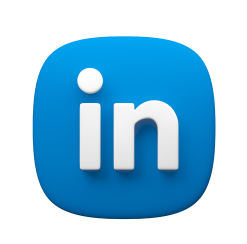
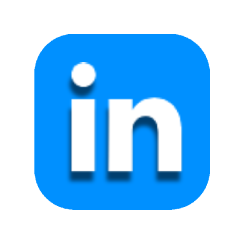
feat(index.astro): add new images, descriptio and comment future components

diff --git a/src/partials/Hero.tsx b/src/partials/Hero.tsx
@@ -3,61 +3,76 @@ import {
   HeroAvatar,
   HeroSocial,
   Section,
-} from 'astro-boilerplate-components';
+} from "astro-boilerplate-components";
 
 const Hero = () => (
   <Section>
     <HeroAvatar
       title={
         <>
-          Hi there, I'm <GradientText>Ixartz</GradientText> 👋
+          Hi there, I'm <GradientText>Inushin</GradientText> 👋
         </>
       }
       description={
         <>
-          Lorem ipsum dolor sit amet, consectetur adipiscing elit. Phasellus{' '}
-          <a className="text-cyan-400 hover:underline" href="/">
-            malesuada
-          </a>{' '}
-          nisi tellus, non imperdiet nisi tempor at. Lorem ipsum dolor sit amet,{' '}
-          <a className="text-cyan-400 hover:underline" href="/">
-            consectetur
-          </a>{' '}
-          adipiscing elit, sed do eiusmod tempor incididunt ut labore et dolore.
+          Well let me be more "personal". Mi name is{" "}
+          <a
+            className="text-cyan-400 hover:underline"
+            href="https://www.linkedin.com/in/aitor-sobera-ortiz-de-z%C3%A1rate-745aa66b/"
+          >
+            Aitor Sobera Ortiz de Zárate
+          </a>
+          , a 28 years old guy who works as FullStack developer from Spain. At
+          this moment, I am working with{" "}
+          <a
+            className="text-cyan-400 hover:underline"
+            href="https://developer.mozilla.org/es/docs/Web/JavaScript"
+          >
+            JavaScript
+          </a>{" "}
+          and{" "}
+          <a
+            className="text-cyan-400 hover:underline"
+            href="https://developer.mozilla.org/es/docs/Web/JavaScript"
+          >
+            TypeScript
+          </a>{" "}
+          as primary programming languages. Apart fromt this, I am a{" "}
+          <a
+            className="text-cyan-400 hover:underline"
+            href="https://www.docker.com/"
+          >
+            Docker
+          </a>{" "}
+          lover.{" "}
         </>
       }
       avatar={
         <img
-          className="h-80 w-64"
-          src="/assets/images/avatar.svg"
+          className="h-75 w-64 rounded-full"
+          src="/assets/images/avatar.jpeg"
           alt="Avatar image"
           loading="lazy"
         />
       }
       socialButtons={
         <>
-          <a href="/">
+          <a href="mailto:aitorthedeveloper@gmail.com">
+            <HeroSocial src="/assets/images/email-icon.png" alt="Email icon" />
+          </a>
+          <a href="https://twitter.com/inushin95">
+            <HeroSocial src="/assets/images/x-icon.png" alt="X icon" />
+          </a>
+          <a href="https://noc.social/@inushin">
             <HeroSocial
-              src="/assets/images/twitter-icon.png"
-              alt="Twitter icon"
+              src="/assets/images/mastodon-icon.png"
+              alt="Mastodon icon"
             />
           </a>
-          <a href="/">
-            <HeroSocial
-              src="/assets/images/facebook-icon.png"
-              alt="Facebook icon"
-            />
-          </a>
-          <a href="/">
+          <a href="https://www.linkedin.com/in/aitor-sobera-ortiz-de-z%C3%A1rate-745aa66b/">
             <HeroSocial
               src="/assets/images/linkedin-icon.png"
               alt="Linkedin icon"
-            />
-          </a>
-          <a href="/">
-            <HeroSocial
-              src="/assets/images/youtube-icon.png"
-              alt="Youtube icon"
             />
           </a>
         </>

diff --git a/src/partials/Navbar.tsx b/src/partials/Navbar.tsx
@@ -4,7 +4,7 @@ import {
   NavMenu,
   NavMenuItem,
   Section,
-} from 'astro-boilerplate-components';
+} from "astro-boilerplate-components";
 
 const Navbar = () => (
   <Section>
@@ -28,14 +28,13 @@ const Navbar = () => (
               <path d="M4 20h14"></path>
             </svg>
           }
-          name="Ixartz's Blog"
+          name="Inushin's Blog"
         />
       </a>
 
       <NavMenu>
         <NavMenuItem href="/posts/">Blogs</NavMenuItem>
-        <NavMenuItem href="/">GitHub</NavMenuItem>
-        <NavMenuItem href="/">Twitter</NavMenuItem>
+        <NavMenuItem href="https://github.com/Inushin">GitHub</NavMenuItem>
       </NavMenu>
     </NavbarTwoColumns>
   </Section>
